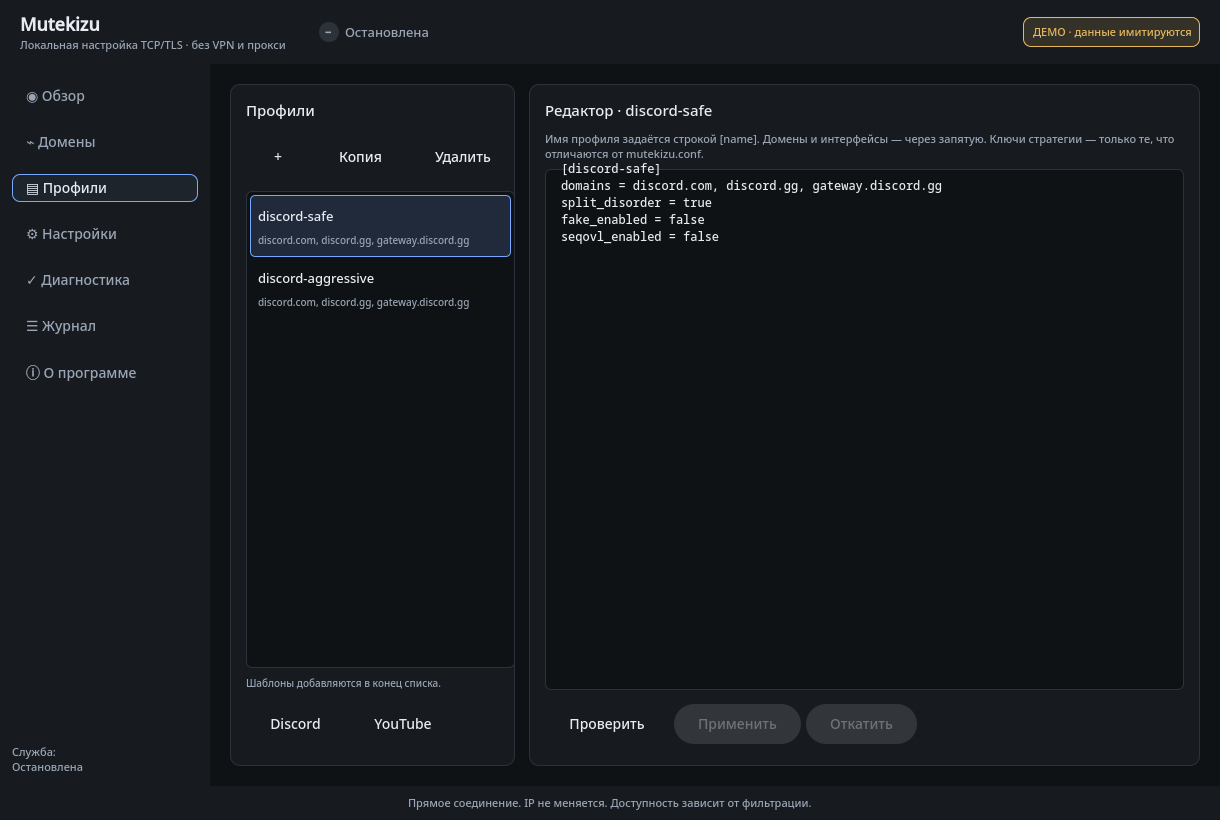
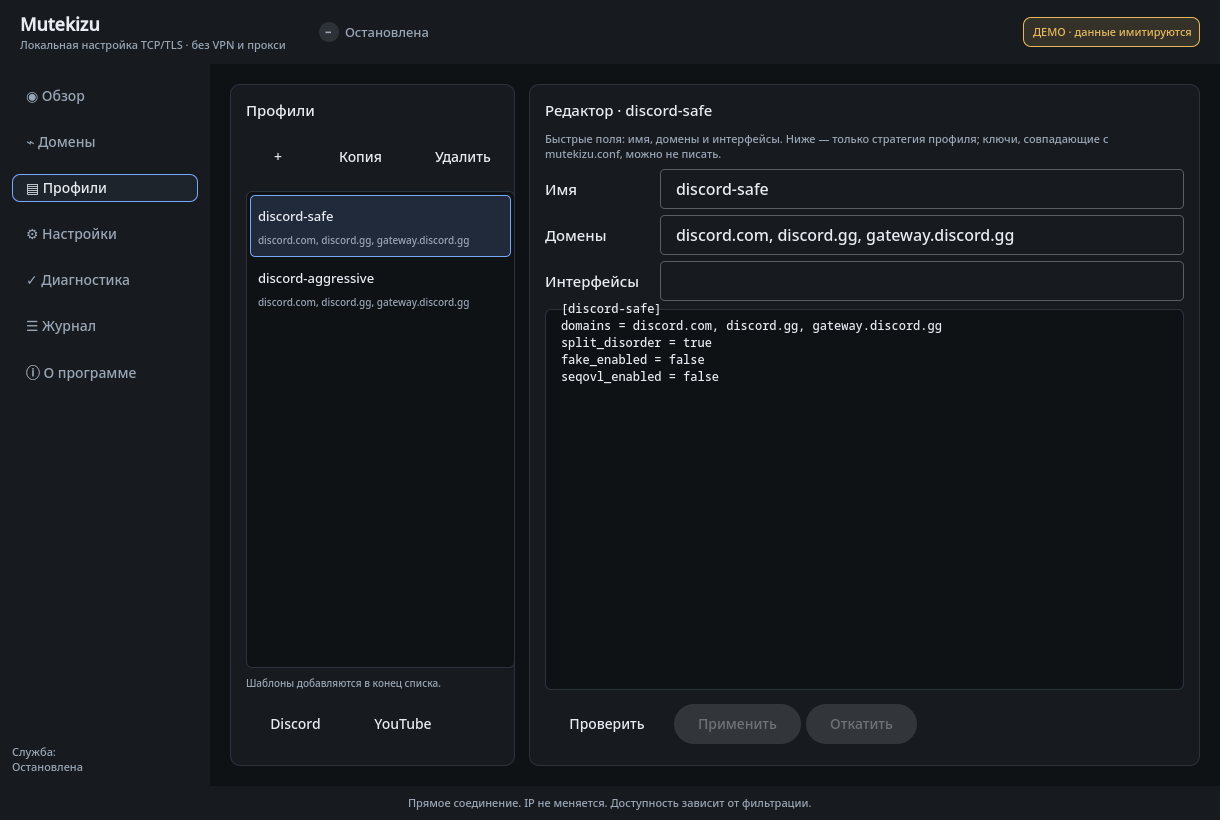
Polish profiles editor fields, layout and selection

Changed region(s): [[0.4361, 0.1524, 0.9656, 0.3049], [0.4361, 0.3354, 0.7787, 0.4878]]

diff --git a/gui/qml/ProfilesPage.qml b/gui/qml/ProfilesPage.qml
@@ -22,6 +22,23 @@ Item {
         editor.text = currentText()
     }
 
+    function syncFields() {
+        if (backend.profileList.length > selected) {
+            if (!profileName.activeFocus) profileName.text = backend.profileValue(selected, "name")
+            if (!profileDomains.activeFocus) profileDomains.text = backend.profileValue(selected, "domains")
+            if (!profileInterfaces.activeFocus) profileInterfaces.text = backend.profileValue(selected, "interfaces")
+        } else {
+            profileName.text = ""
+            profileDomains.text = ""
+            profileInterfaces.text = ""
+        }
+        if (!editor.activeFocus && editor.text !== currentText())
+            editor.text = currentText()
+    }
+
+    onSelectedChanged: syncFields()
+    Component.onCompleted: syncFields()
+
     function check() {
         validationText = backend.validateDraft()
         if (validationText.length === 0) validationText = qsTr("Проверка пройдена.")
@@ -32,8 +49,7 @@ Item {
         function onProfilesChanged() {
             if (selected >= backend.profileList.length)
                 selected = Math.max(0, backend.profileList.length - 1)
-            if (!editor.activeFocus && editor.text !== currentText())
-                editor.text = currentText()
+            syncFields()
         }
     }
 
@@ -165,11 +181,65 @@ Item {
 
             Text {
                 Layout.fillWidth: true
-                text: qsTr("Имя профиля задаётся строкой [name]. Домены и интерфейсы — через запятую. Ключи стратегии — только те, что отличаются от mutekizu.conf.")
+                text: qsTr("Быстрые поля: имя, домены и интерфейсы. Ниже — только стратегия профиля; ключи, совпадающие с mutekizu.conf, можно не писать.")
                 color: Theme.muted
                 font.family: Theme.font
                 font.pixelSize: 11
                 wrapMode: Text.WordWrap
+            }
+
+            ColumnLayout {
+                Layout.fillWidth: true
+                spacing: 6
+
+                RowLayout {
+                    Layout.fillWidth: true
+                    spacing: 10
+                    Text { text: qsTr("Имя"); color: Theme.text; font.family: Theme.font; Layout.preferredWidth: 105 }
+                    TextField {
+                        id: profileName
+                        Layout.fillWidth: true
+                        Layout.preferredHeight: 40
+                        enabled: backend.profileList.length > 0
+                        font.family: Theme.font
+                        onEditingFinished: {
+                            backend.setProfileValue(page.selected, "name", text)
+                            page.syncFields()
+                        }
+                    }
+                }
+                RowLayout {
+                    Layout.fillWidth: true
+                    spacing: 10
+                    Text { text: qsTr("Домены"); color: Theme.text; font.family: Theme.font; Layout.preferredWidth: 105 }
+                    TextField {
+                        id: profileDomains
+                        Layout.fillWidth: true
+                        Layout.preferredHeight: 40
+                        enabled: backend.profileList.length > 0
+                        font.family: Theme.font
+                        onEditingFinished: {
+                            backend.setProfileValue(page.selected, "domains", text)
+                            page.syncFields()
+                        }
+                    }
+                }
+                RowLayout {
+                    Layout.fillWidth: true
+                    spacing: 10
+                    Text { text: qsTr("Интерфейсы"); color: Theme.text; font.family: Theme.font; Layout.preferredWidth: 105 }
+                    TextField {
+                        id: profileInterfaces
+                        Layout.fillWidth: true
+                        Layout.preferredHeight: 40
+                        enabled: backend.profileList.length > 0
+                        font.family: Theme.font
+                        onEditingFinished: {
+                            backend.setProfileValue(page.selected, "interfaces", text)
+                            page.syncFields()
+                        }
+                    }
+                }
             }
 
             TextArea {

diff --git a/gui/src/backend.cpp b/gui/src/backend.cpp
@@ -423,6 +423,62 @@ void Backend::refreshProfiles()
     rebuildProfileBlocks();
 }
 
+QString Backend::profileValue(int index, const QString& key) const
+{
+    if (index < 0 || index >= m_profileList.size()) return {};
+    const QString block = m_profileList.at(index).toMap().value("text").toString();
+    for (const QString& line : block.split('\n')) {
+        const QString t = line.trimmed();
+        if (key == "name" && t.startsWith('[') && t.endsWith(']'))
+            return t.mid(1, t.size() - 2).trimmed();
+        const int eq = t.indexOf('=');
+        if (eq > 0 && t.left(eq).trimmed() == key)
+            return t.mid(eq + 1).trimmed();
+    }
+    return {};
+}
+
+void Backend::setProfileValue(int index, const QString& key, const QString& value)
+{
+    if (index < 0 || index >= m_profileList.size()) return;
+    QString block = m_profileList.at(index).toMap().value("text").toString();
+    QStringList lines = block.split('\n');
+    if (key == "name") {
+        const QString name = value.trimmed();
+        if (name.isEmpty()) return;
+        for (QString& line : lines) {
+            const QString t = line.trimmed();
+            if (t.startsWith('[') && t.endsWith(']')) {
+                line = QStringLiteral("[%1]").arg(name);
+                break;
+            }
+        }
+    } else {
+        bool found = false;
+        for (int i = 0; i < lines.size(); ++i) {
+            const QString t = lines[i].trimmed();
+            const int eq = t.indexOf('=');
+            if (eq > 0 && t.left(eq).trimmed() == key) {
+                if (value.trimmed().isEmpty())
+                    lines.removeAt(i);
+                else
+                    lines[i] = QStringLiteral("%1 = %2").arg(key, value.trimmed());
+                found = true;
+                break;
+            }
+        }
+        if (!found && !value.trimmed().isEmpty()) {
+            while (!lines.isEmpty() && lines.last().trimmed().isEmpty()) lines.removeLast();
+            lines << QStringLiteral("%1 = %2").arg(key, value.trimmed());
+            lines << QString();
+        }
+    }
+    QString edited = lines.join('\n');
+    if (!edited.endsWith('\n')) edited += '\n';
+    setProfileBlock(index, edited);
+    refreshProfiles();
+}
+
 void Backend::addProfile()
 {
     QString name = QStringLiteral("profile");

diff --git a/gui/src/main.cpp b/gui/src/main.cpp
@@ -59,11 +59,28 @@ int selfTest()
     check(initialProfiles >= 1, "demo profiles are parsed");
     b.addProfileTemplate("youtube");
     check(b.profileList().size() > initialProfiles, "profile template is appended");
+    const int newIndex = b.profileList().size() - 1;
+    const QString before = b.profileTextAt(newIndex);
+    check(before.contains("youtube"), "new profile block is present");
+    b.setProfileBlock(newIndex, before + "split_jitter_ms = 2\n");
+    check(b.draftProfilesText().contains("split_jitter_ms = 2"),
+          "profile edit reaches draft text");
+    b.refreshProfiles();
+    check(b.profileTextAt(newIndex).contains("split_jitter_ms = 2"),
+          "profile edit survives refresh");
+    b.setProfileValue(newIndex, "domains", "example.org");
+    check(b.profileValue(newIndex, "domains") == "example.org",
+          "quick profile fields update the block");
+    b.setProfileValue(newIndex, "interfaces", "");
+    check(b.profileValue(newIndex, "interfaces").isEmpty(),
+          "empty interface removes the key");
     b.duplicateProfile(0);
     check(b.profileList().size() > initialProfiles + 1, "profile is duplicated");
     const int beforeRemove = b.profileList().size();
     b.removeProfile(0);
     check(b.profileList().size() == beforeRemove - 1, "profile is removed");
+    check(!b.draftProfilesText().contains("[discord-safe]"),
+          "removed profile is gone from text");
 
     b.setSetting("split_delta", 0);
     check(!b.validateDraft().isEmpty(), "invalid split_delta rejected");

diff --git a/gui/src/backend.hpp b/gui/src/backend.hpp
@@ -108,6 +108,8 @@ public:
     Q_INVOKABLE void removeProfile(int index);
     Q_INVOKABLE void duplicateProfile(int index);
     Q_INVOKABLE void refreshProfiles();
+    Q_INVOKABLE QString profileValue(int index, const QString& key) const;
+    Q_INVOKABLE void setProfileValue(int index, const QString& key, const QString& value);
     Q_INVOKABLE void addDomain(const QString& domain);
     Q_INVOKABLE void addMssTarget(const QString& target);
     Q_INVOKABLE void revertDraft();

diff --git a/README.md b/README.md
@@ -590,9 +590,10 @@ fake_enabled = false
 `/etc/mutekizu/profiles.conf`). Файл создаётся установщиком с примерами в
 комментариях; если его нет, работают глобальные настройки.
 
-В GUI есть страница **«Профили»**: список профилей слева, редактор
-выбранного `[section]` справа, кнопки добавить/копировать/удалить,
-шаблоны Discord/YouTube, проверка ошибок и «Применить». Проверка идёт
+В GUI есть страница **«Профили»**: список профилей слева, быстрые поля
+имя/домены/интерфейсы и редактор стратегии выбранного `[section]` справа,
+кнопки добавить/копировать/удалить, шаблоны Discord/YouTube, проверка ошибок
+и «Применить». Проверка идёт
 через тот же `mutekizu validate`, запись — через PKEXEC-helper и атомарную
 замену файла. Комментарии/преамбула файла сохраняются.
 
